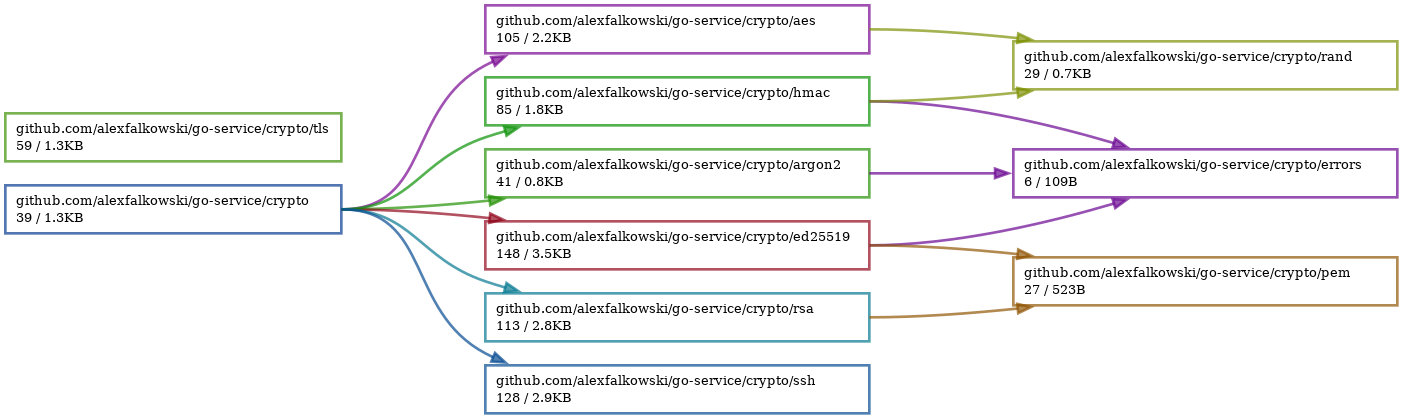
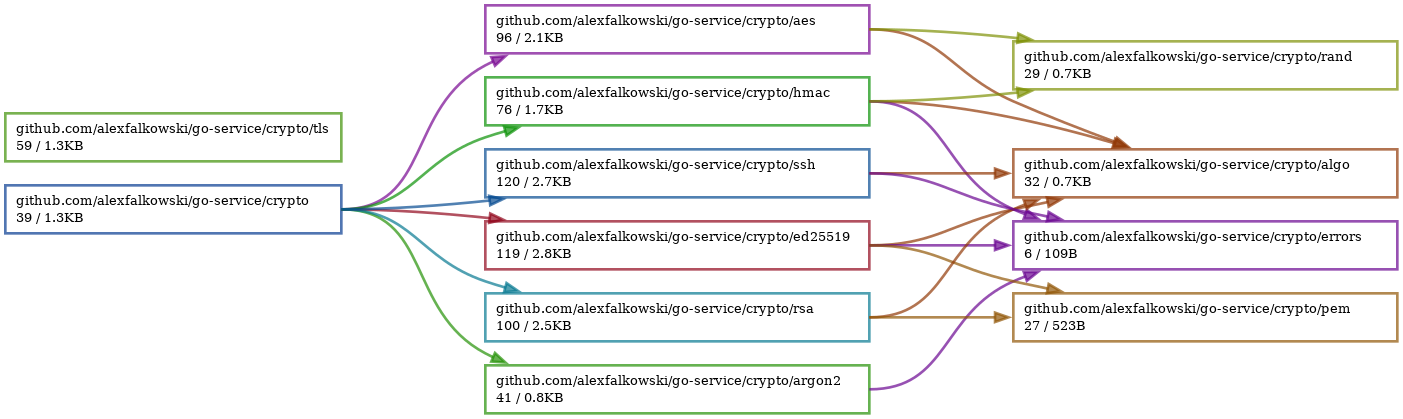
feat(crypto): ssh should use signature (#810)

diff --git a/crypto/ssh/ssh_test.go b/crypto/ssh/ssh_test.go
@@ -3,13 +3,14 @@ package ssh_test
 import (
 	"testing"
 
+	"github.com/alexfalkowski/go-service/crypto/errors"
 	"github.com/alexfalkowski/go-service/crypto/ssh"
 	"github.com/alexfalkowski/go-service/test"
 	. "github.com/smartystreets/goconvey/convey" //nolint:revive
 )
 
 func TestValidAlgo(t *testing.T) {
-	Convey("When I generate", t, func() {
+	Convey("When I generate keys", t, func() {
 		pub, pri, err := ssh.Generate()
 
 		Convey("Then I should not have an error", func() {
@@ -19,30 +20,15 @@ func TestValidAlgo(t *testing.T) {
 		})
 	})
 
-	Convey("Given I have generated a key pair", t, func() {
-		Convey("When I create an algo", func() {
-			a, err := ssh.NewAlgo(test.NewSSH())
-
-			Convey("Then I should not have an error", func() {
-				So(err, ShouldBeNil)
-				So(a, ShouldNotBeNil)
-			})
-		})
-	})
-
 	Convey("Given I have an algo", t, func() {
 		a, err := ssh.NewAlgo(test.NewSSH())
 		So(err, ShouldBeNil)
 
-		Convey("When I encrypt data", func() {
-			e, err := a.Encrypt("test")
-			So(err, ShouldBeNil)
+		Convey("When I sign data", func() {
+			e := a.Sign("test")
 
-			Convey("Then I should decrypt the data", func() {
-				d, err := a.Decrypt(e)
-				So(err, ShouldBeNil)
-
-				So(d, ShouldEqual, "test")
+			Convey("Then I should compared the data", func() {
+				So(a.Verify(e, "test"), ShouldBeNil)
 			})
 		})
 	})
@@ -51,27 +37,22 @@ func TestValidAlgo(t *testing.T) {
 		a, err := ssh.NewAlgo(nil)
 		So(err, ShouldBeNil)
 
-		Convey("When I encrypt data", func() {
-			e, err := a.Encrypt("test")
-			So(err, ShouldBeNil)
+		Convey("When I sign data", func() {
+			e := a.Sign("test")
 
-			Convey("Then I should decrypt the data", func() {
-				d, err := a.Decrypt(e)
-				So(err, ShouldBeNil)
-
-				So(d, ShouldEqual, "test")
+			Convey("Then I should compared the data", func() {
+				So(a.Verify(e, "test"), ShouldBeNil)
 			})
 		})
 	})
 }
 
 func TestInvalidAlgo(t *testing.T) {
-	Convey("When I create an invalid algo", t, func() {
-		a, err := ssh.NewAlgo(&ssh.Config{})
+	Convey("When I create a algo", t, func() {
+		_, err := ssh.NewAlgo(&ssh.Config{})
 
-		Convey("Then I should have an error", func() {
+		Convey("Then I should not have an error", func() {
 			So(err, ShouldBeError)
-			So(a, ShouldBeNil)
 		})
 	})
 
@@ -79,15 +60,12 @@ func TestInvalidAlgo(t *testing.T) {
 		a, err := ssh.NewAlgo(test.NewSSH())
 		So(err, ShouldBeNil)
 
-		Convey("When I encrypt data", func() {
-			e, err := a.Encrypt("test")
-			So(err, ShouldBeNil)
-
+		Convey("When I sign data", func() {
+			e := a.Sign("test")
 			e += "wha"
 
 			Convey("Then I should have an error", func() {
-				_, err := a.Decrypt(e)
-				So(err, ShouldBeError)
+				So(a.Verify(e, "test"), ShouldBeError)
 			})
 		})
 	})
@@ -96,11 +74,11 @@ func TestInvalidAlgo(t *testing.T) {
 		a, err := ssh.NewAlgo(test.NewSSH())
 		So(err, ShouldBeNil)
 
-		Convey("When I decrypt invalid data", func() {
-			_, err := a.Decrypt("test")
+		Convey("When I sign one message", func() {
+			e := a.Sign("test")
 
-			Convey("Then I have an error", func() {
-				So(err, ShouldBeError)
+			Convey("Then I comparing another message will gave an error", func() {
+				So(a.Verify(e, "bob"), ShouldBeError, errors.ErrMismatch)
 			})
 		})
 	})

diff --git a/crypto/ssh/ssh.go b/crypto/ssh/ssh.go
@@ -1,29 +1,29 @@
 package ssh
 
 import (
+	"crypto/ed25519"
 	"crypto/rand"
-	"crypto/rsa"
-	"crypto/sha512"
 	"encoding/base64"
 	"encoding/pem"
 
 	"github.com/alexfalkowski/go-service/crypto/algo"
+	"github.com/alexfalkowski/go-service/crypto/errors"
 	"golang.org/x/crypto/ssh"
 )
 
 // Generate key pair with ssh.
 func Generate() (PublicKey, PrivateKey, error) {
-	p, err := rsa.GenerateKey(rand.Reader, 4096)
+	pu, pr, err := ed25519.GenerateKey(rand.Reader)
 	if err != nil {
 		return "", "", err
 	}
 
-	ppr, err := ssh.MarshalPrivateKey(p, "")
+	ppr, err := ssh.MarshalPrivateKey(pr, "")
 	if err != nil {
 		return "", "", err
 	}
 
-	pub, err := ssh.NewPublicKey(p.Public())
+	pub, err := ssh.NewPublicKey(pu)
 	if err != nil {
 		return "", "", err
 	}
@@ -33,13 +33,13 @@ func Generate() (PublicKey, PrivateKey, error) {
 
 // Algo for ssh.
 type Algo interface {
-	algo.Cipher
+	algo.Signer
 }
 
 // NewAlgo for ssh.
 func NewAlgo(cfg *Config) (Algo, error) {
 	if !IsEnabled(cfg) {
-		return &algo.NoCipher{}, nil
+		return &algo.NoSigner{}, nil
 	}
 
 	pub, err := cfg.PublicKey()
@@ -56,23 +56,26 @@ func NewAlgo(cfg *Config) (Algo, error) {
 }
 
 type sshAlgo struct {
-	publicKey  *rsa.PublicKey
-	privateKey *rsa.PrivateKey
+	publicKey  ed25519.PublicKey
+	privateKey ed25519.PrivateKey
 }
 
-func (a *sshAlgo) Encrypt(msg string) (string, error) {
-	e, err := rsa.EncryptOAEP(sha512.New(), rand.Reader, a.publicKey, []byte(msg), nil)
+func (a *sshAlgo) Sign(msg string) string {
+	m := ed25519.Sign(a.privateKey, []byte(msg))
 
-	return base64.StdEncoding.EncodeToString(e), err
+	return base64.StdEncoding.EncodeToString(m)
 }
 
-func (a *sshAlgo) Decrypt(msg string) (string, error) {
-	d, err := base64.StdEncoding.DecodeString(msg)
+func (a *sshAlgo) Verify(sig, msg string) error {
+	d, err := base64.StdEncoding.DecodeString(sig)
 	if err != nil {
-		return "", err
+		return err
 	}
 
-	d, err = rsa.DecryptOAEP(sha512.New(), rand.Reader, a.privateKey, d, nil)
+	ok := ed25519.Verify(a.publicKey, []byte(msg), d)
+	if !ok {
+		return errors.ErrMismatch
+	}
 
-	return string(d), err
+	return nil
 }

diff --git a/crypto/ssh/config.go b/crypto/ssh/config.go
@@ -1,7 +1,7 @@
 package ssh
 
 import (
-	"crypto/rsa"
+	"crypto/ed25519"
 	"os"
 
 	"golang.org/x/crypto/ssh"
@@ -27,7 +27,7 @@ type (
 )
 
 // PublicKey ssh.
-func (c *Config) PublicKey() (*rsa.PublicKey, error) {
+func (c *Config) PublicKey() (ed25519.PublicKey, error) {
 	d, err := os.ReadFile(string(c.Public))
 	if err != nil {
 		return nil, err
@@ -41,11 +41,11 @@ func (c *Config) PublicKey() (*rsa.PublicKey, error) {
 
 	key := parsed.(ssh.CryptoPublicKey)
 
-	return key.CryptoPublicKey().(*rsa.PublicKey), nil
+	return key.CryptoPublicKey().(ed25519.PublicKey), nil
 }
 
 // PrivateKey ssh.
-func (c *Config) PrivateKey() (*rsa.PrivateKey, error) {
+func (c *Config) PrivateKey() (ed25519.PrivateKey, error) {
 	d, err := os.ReadFile(string(c.Private))
 	if err != nil {
 		return nil, err
@@ -56,5 +56,7 @@ func (c *Config) PrivateKey() (*rsa.PrivateKey, error) {
 		return nil, err
 	}
 
-	return key.(*rsa.PrivateKey), nil
+	k := key.(*ed25519.PrivateKey)
+
+	return *k, nil
 }
